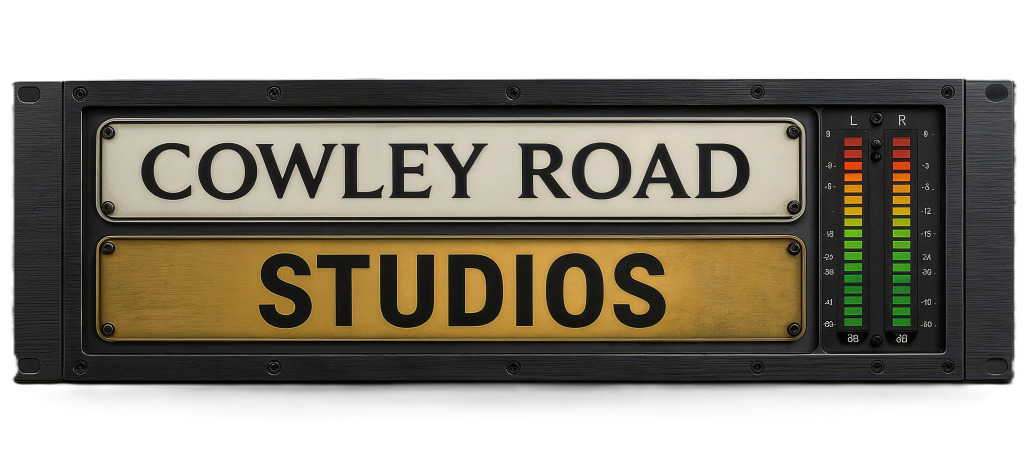
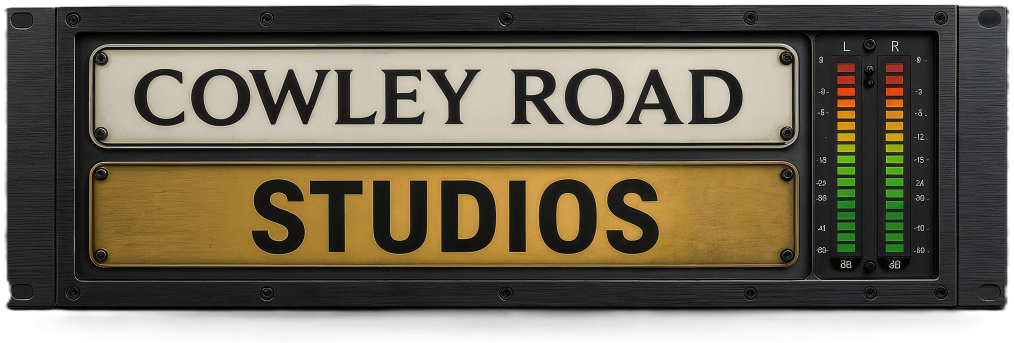
fix: crop PNG transparent padding + kill black rectangles
- Cropped crs-rack-sign.png from 1024×452 to 1014×343:
  removed 78 empty rows at top, 39 at bottom, kept 4px shadow margin
- Changed .hp-idle-sign object-fit from 'contain' to 'fill' + vertical-align:top
  (contain letterboxes; fill uses every pixel of the element box)
- Set .hp-machine-inner gap to 0 (was 2px — black lines between modules)
- Made .hp-screen background transparent when idle; dark bg restored via
  :has(.hp-display-panel) and :has(.hp-loc-selector) only when content is open

diff --git a/public/static/studio-rack-demo.css b/public/static/studio-rack-demo.css
@@ -488,9 +488,9 @@ button { background: none; border: none; font: inherit; cursor: pointer; }
   min-width: 0;
   display: flex;
   flex-direction: column;
-  gap: 2px;           /* Tighter gaps — modules sit flush */
-  background-color: #000;  /* Dark void behind gear */
-  padding: 0;         /* No top/bottom padding — tight rack mounting */
+  gap: 0;              /* Zero gap — modules sit flush, no black lines */
+  background-color: #000;
+  padding: 0;
 }
 
 /* ============================================================
@@ -499,10 +499,8 @@ button { background: none; border: none; font: inherit; cursor: pointer; }
 .hp-screen {
   overflow: hidden;
   /* No min-height — shrinks to fit content (sign + display fill the slot) */
-  background: var(--nettle);
+  background: transparent;  /* transparent when idle so no black bleed */
   position: relative;
-  /* 3D module edges */
-  background-color: #000000;
   border-top: 2px solid #3a3a3a;
   border-bottom: 3px solid #000;
   box-shadow:
@@ -512,9 +510,11 @@ button { background: none; border: none; font: inherit; cursor: pointer; }
   transition: border-color 0.5s ease, background 0.5s ease;
 }
 
-/* When a service panel is open (powered + active), give the screen room */
-.hp-page--powered .hp-screen:has(.hp-display-panel) {
+/* When a service panel is open (powered + active), give the screen room + dark bg */
+.hp-page--powered .hp-screen:has(.hp-display-panel),
+.hp-page--powered .hp-screen:has(.hp-loc-selector) {
   min-height: 340px;
+  background-color: #000000;
 }
 
 /* Screen shifts toward warm when café is active */
@@ -575,7 +575,9 @@ button { background: none; border: none; font: inherit; cursor: pointer; }
   max-width: 100%;  /* Full rack width */
   width: 100%;
   height: auto;
-  object-fit: contain;
+  /* object-fit: fill so the cropped PNG fills exactly the slot with no letterboxing */
+  object-fit: fill;
+  vertical-align: top;   /* kill the inline 4px gap browsers add below images */
   /* Subtle mounting shadow — feels bolted in */
   filter: drop-shadow(0px 4px 6px rgba(0,0,0,0.8));
 }
